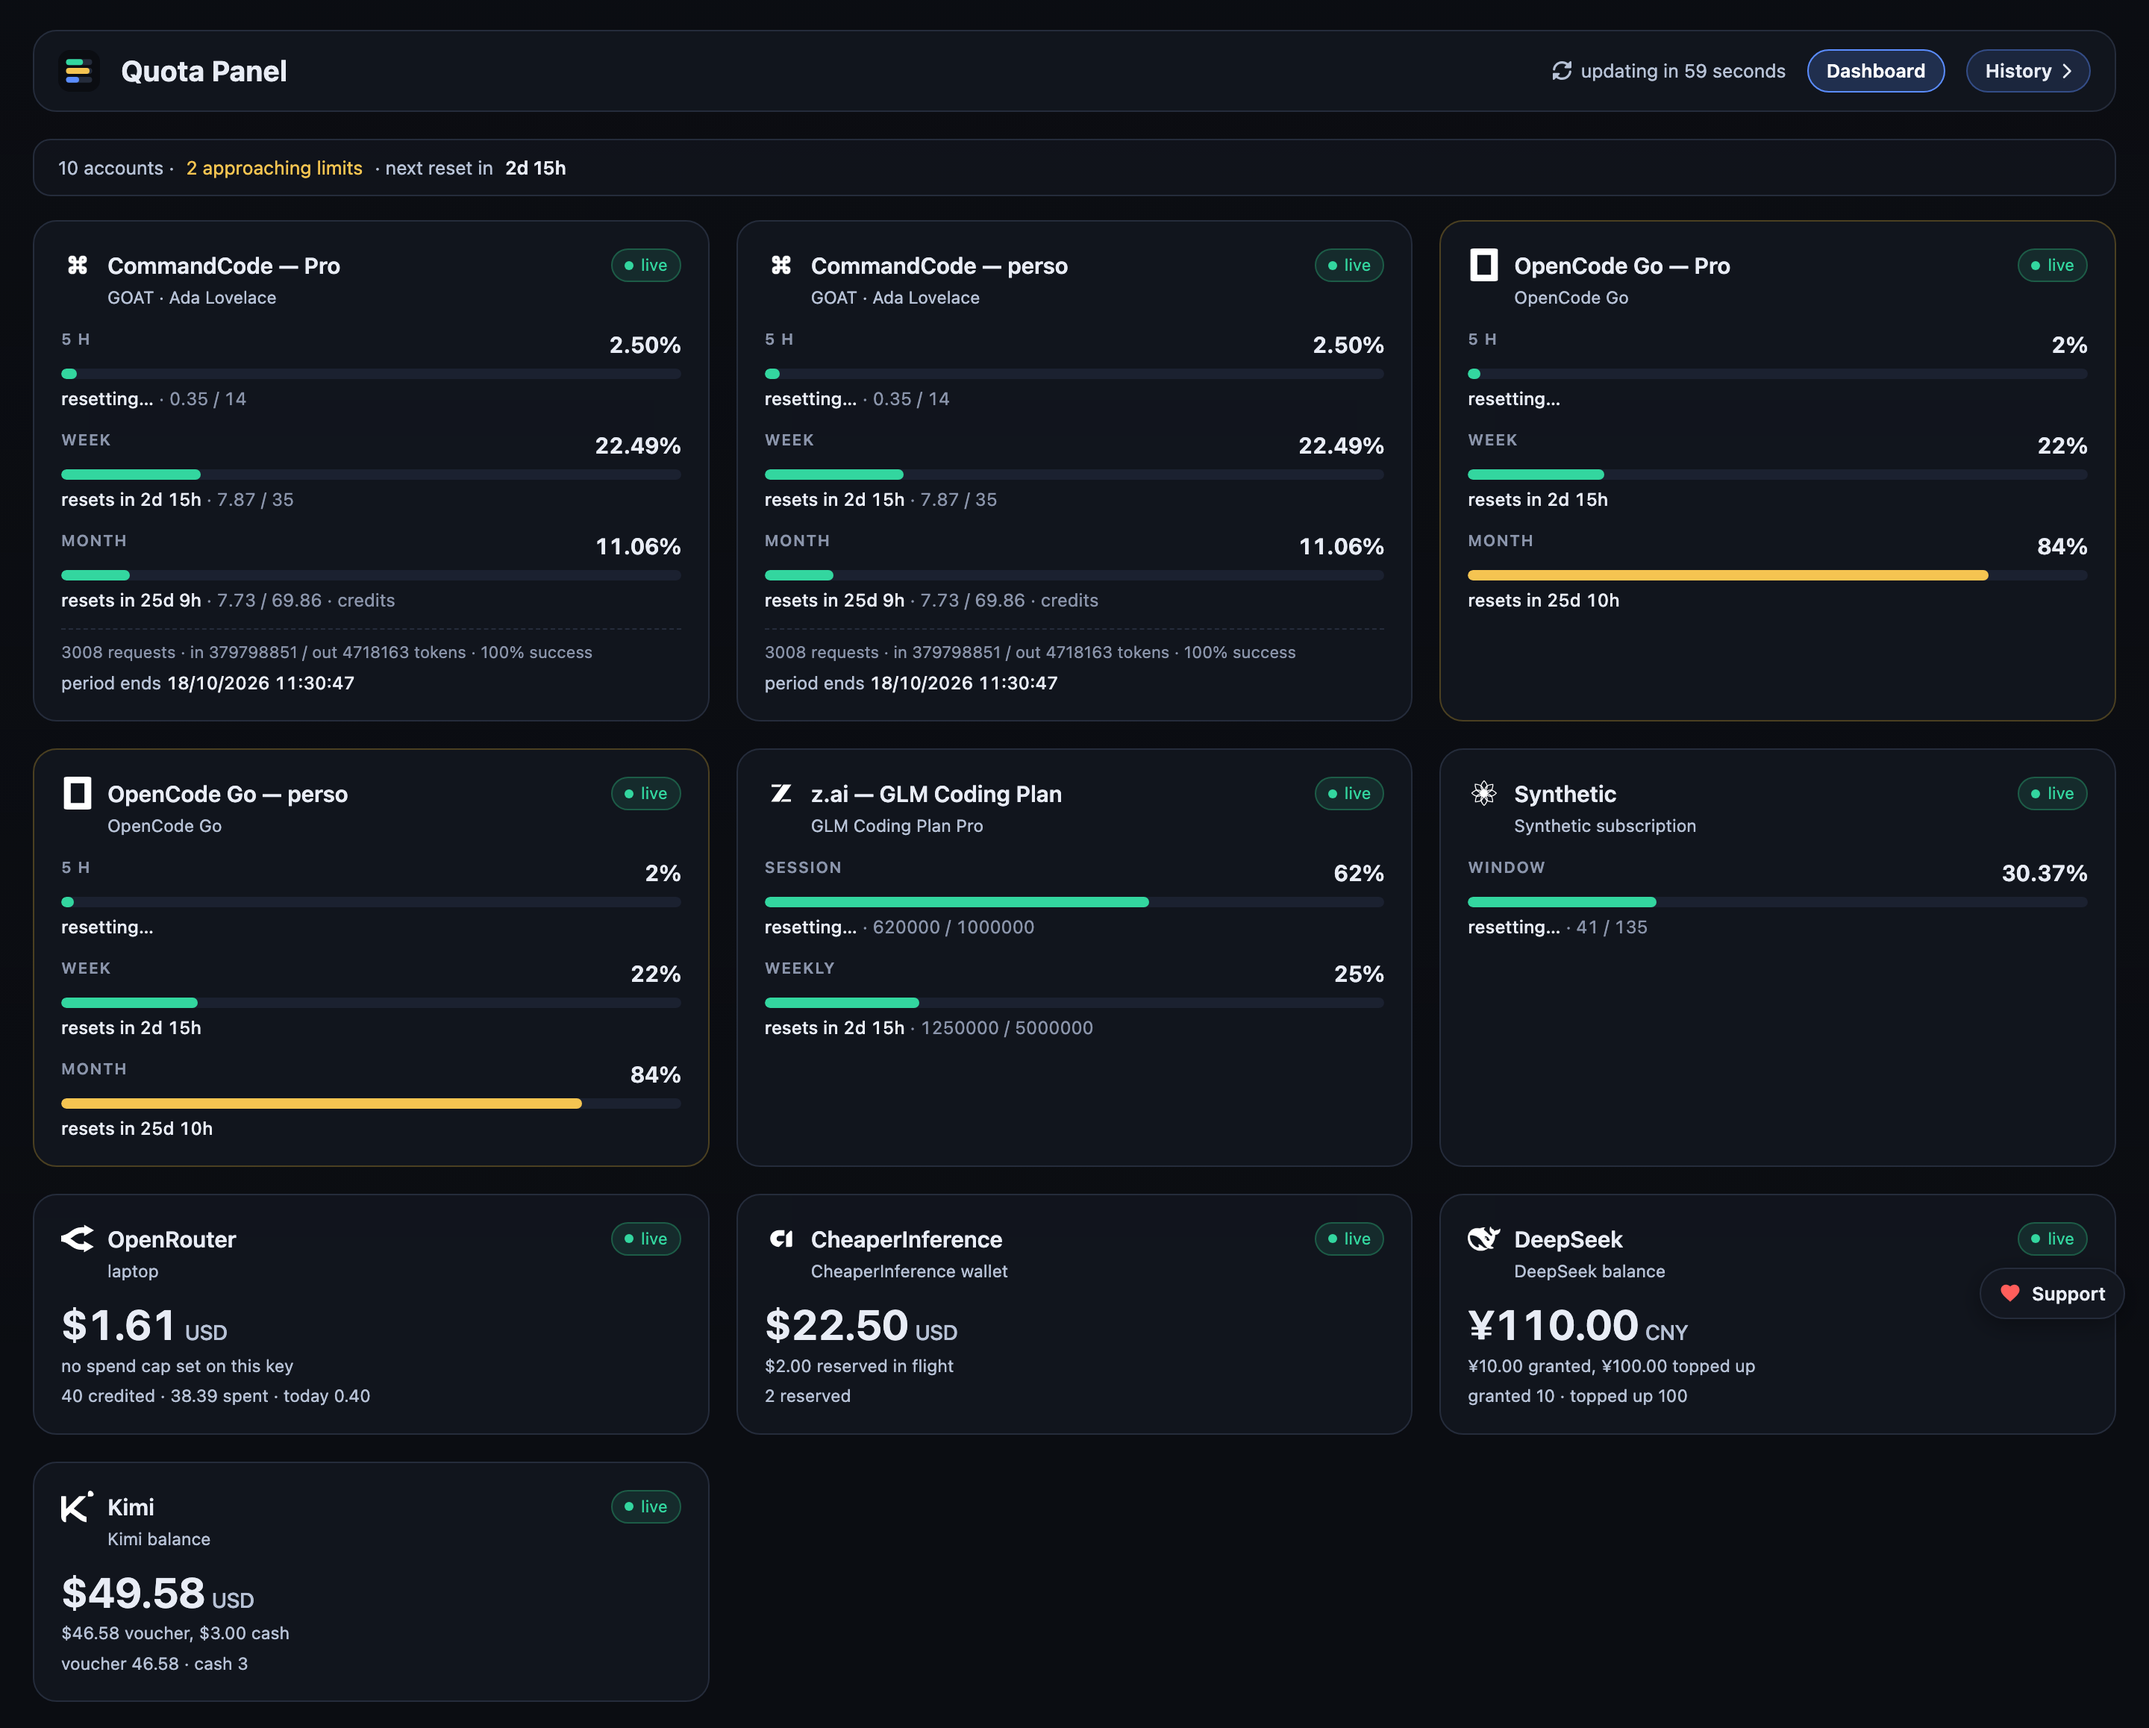
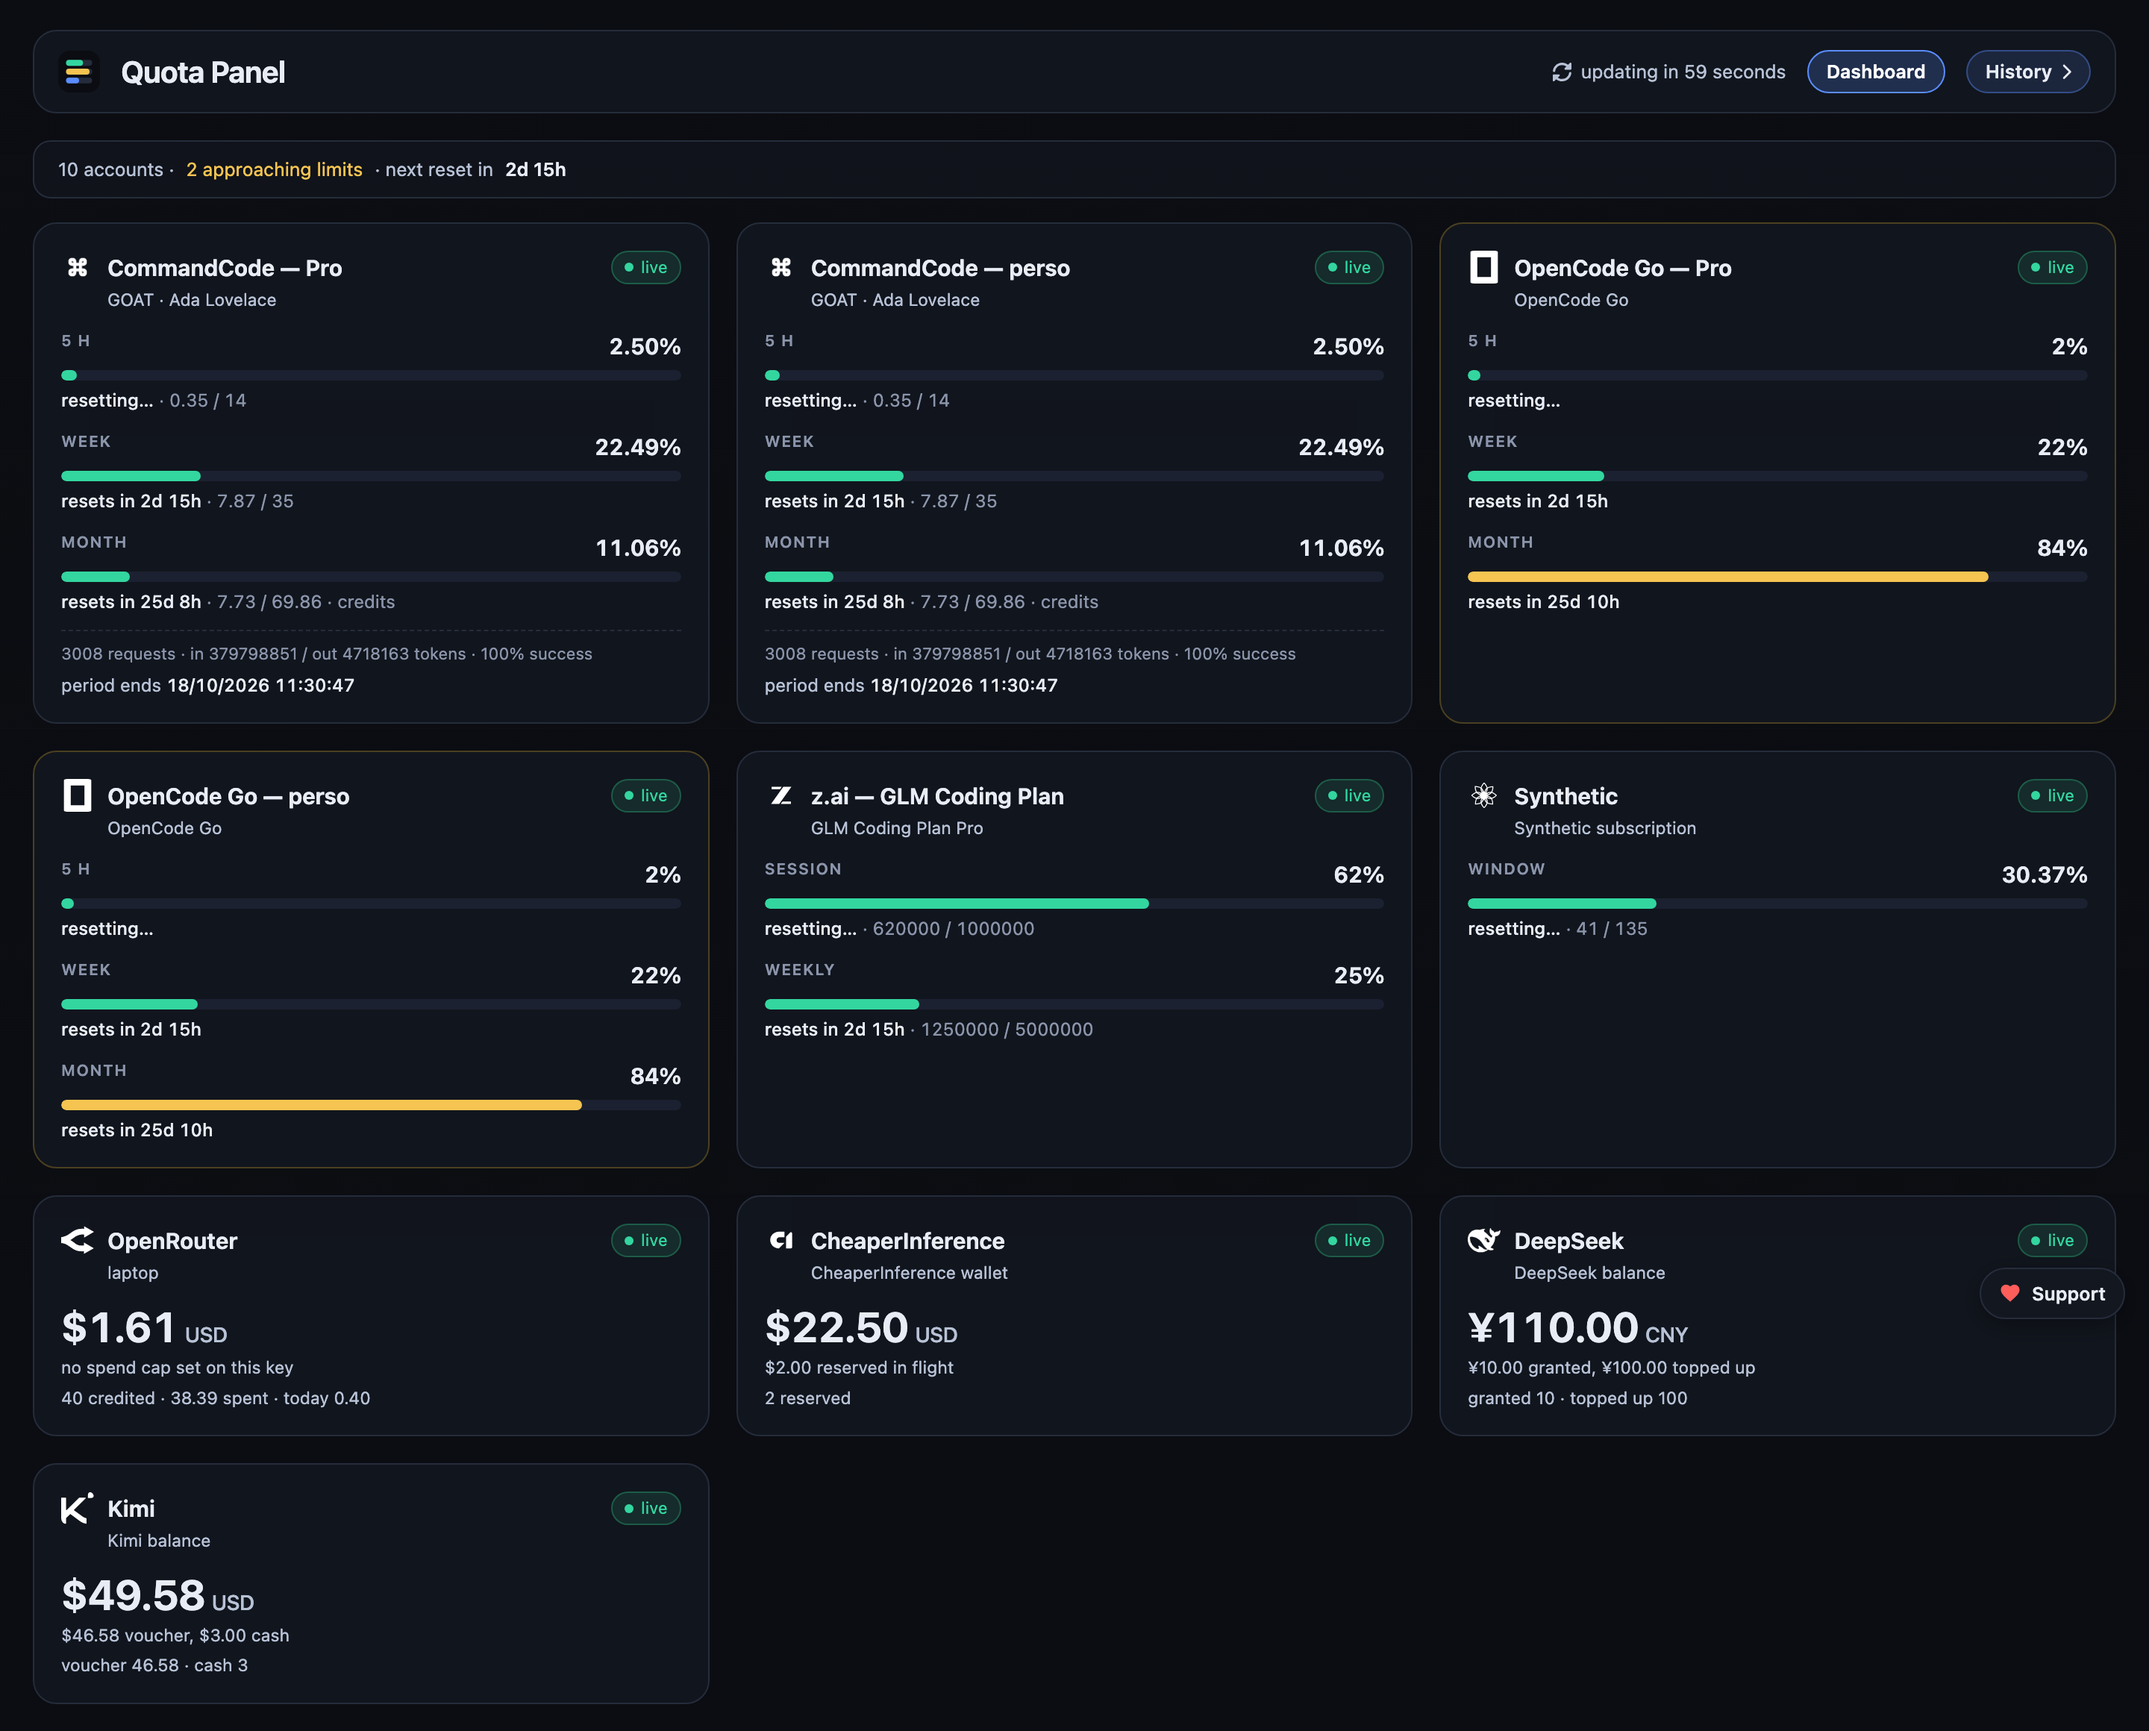
fix(ui): close review findings — pin the strip guard, validate the restored bucket, spec typography

diff --git a/static/history.html b/static/history.html
@@ -50,7 +50,7 @@
        background:rgba(var(--card),var(--card-alpha));
        border:1px solid var(--line);border-radius:16px;padding:12px 16px;
        backdrop-filter:blur(var(--card-blur));-webkit-backdrop-filter:blur(var(--card-blur))}
-  h1{font-size:19px;margin:0;letter-spacing:.2px}
+  h1{font-size:20px;margin:0;letter-spacing:-.01em;font-weight:650}
   h2{font-size:14px;margin:0 0 4px;letter-spacing:.2px}
   .sub{font-size:11.5px;color:var(--dim);margin-bottom:12px}
   .logo{width:28px;height:28px;border-radius:8px;flex:0 0 auto;align-self:center;display:block}
@@ -84,7 +84,7 @@
        padding:5px 8px;font:inherit;font-size:12.5px}
   .stats{display:grid;gap:12px;grid-template-columns:repeat(auto-fit,minmax(160px,1fr));margin-bottom:16px}
   .stat{background:var(--card-2);border:1px solid var(--line);border-radius:12px;padding:12px 14px}
-  .stat .k{font-size:10.5px;color:var(--dim);text-transform:uppercase;letter-spacing:.5px}
+  .stat .k{font-size:10.5px;color:var(--dim);text-transform:uppercase;letter-spacing:.06em}
   .stat .v{font-size:22px;font-weight:700;margin-top:3px;letter-spacing:-.02em;font-variant-numeric:tabular-nums}
   .stat .s{font-size:11.5px;color:var(--muted);margin-top:2px}
   .chart-wrap{position:relative;width:100%}
@@ -319,7 +319,7 @@ function applyStoredSettings(){
   if(!saved || saved.v !== 1) return;
   if(RANGES.some(r => r.hours === saved.hours)) state.hours = saved.hours;
   if(typeof saved.account === 'string') state.account = saved.account;
-  if(typeof saved.bucket === 'number' && saved.bucket >= 0) state.bucket = saved.bucket;
+  if(saved.bucket === 0 || INTERVALS.indexOf(saved.bucket) >= 0) state.bucket = saved.bucket;
 }
 
 function saveSettings(){
@@ -1432,7 +1432,7 @@ function renderScatter(){
     return;
   }
   const width = SQUARE, height = SQUARE;
-  const pad = {left: 34, right: 14, top: 14, bottom: 26};
+  const pad = {left: 34, right: 14, top: 14, bottom: 34};
   const plotW = width - pad.left - pad.right, plotH = height - pad.top - pad.bottom;
   const x = value => pad.left + (Math.max(0, Math.min(value, 100)) / 100) * plotW;
   const y = value => pad.top + plotH - (Math.max(0, Math.min(value, 100)) / 100) * plotH;

diff --git a/static/index.html b/static/index.html
@@ -45,7 +45,7 @@
        background:rgba(var(--card),var(--card-alpha));
        border:1px solid var(--line);border-radius:16px;padding:12px 16px;
        backdrop-filter:blur(var(--card-blur));-webkit-backdrop-filter:blur(var(--card-blur))}
-  h1{font-size:19px;margin:0;letter-spacing:.2px}
+  h1{font-size:20px;margin:0;letter-spacing:-.01em;font-weight:650}
   .logo{width:28px;height:28px;border-radius:8px;flex:0 0 auto;align-self:center;display:block}
   .muted{color:var(--muted);font-size:12.5px}
   /* Inline Font Awesome Free 7.3.1 solid marks (icons CC BY 4.0, Fonticons Inc. — see License in
@@ -66,8 +66,8 @@
   .card.watch{border-color:#4b4021}
   .card.urgent{border-color:#5a2a26;box-shadow:inset 3px 0 0 var(--hot)}
   .card.broken{border-color:#5c2020;box-shadow:inset 3px 0 0 #8a3a32}
-  /* min() keeps the 310px track from forcing a horizontal scroll on a 320-338px viewport, where
-     the content box is narrower than the track's own minimum. */
+  /* Three columns on a wide monitor, two on a laptop, one on a phone. Explicit breakpoints rather
+     than auto-fill, so a 1440px viewport does not quietly become four narrow cards. */
   .grid{display:grid;gap:18px;grid-template-columns:1fr}
   @media (min-width:700px){ .grid{grid-template-columns:1fr 1fr} }
   @media (min-width:1100px){ .grid{grid-template-columns:1fr 1fr 1fr} }
@@ -107,7 +107,7 @@
   .bal-amount .cur{font-size:14px;font-weight:500;color:var(--muted);margin-left:4px}
   .bal-amount.empty{color:var(--warn)}
   .bal-note{font-size:11.5px;color:var(--muted);margin-top:3px}
-  .label{font-weight:600;font-size:15px;margin:0}   /* an h2: the card's title, for a reader */
+  .label{font-weight:650;font-size:15px;margin:0}   /* an h2: the card's title, for a reader */
   .plan{font-size:11.5px;color:var(--muted);margin-top:2px}
   /* A status light: a dot and one word about the reading on this card. Not a verdict on how the
      adapter that produced it was written — that is a maintainer's question, and answering it in

diff --git a/tests/smoke.py b/tests/smoke.py
@@ -230,8 +230,12 @@ def ui_checks():
           'id="status-strip"' in page and 'class="card" id="status-strip"' not in page
           and "function setStatusStrip" in page,
           "the one-line summary must not be counted as an account card")
+    # Scoped to worstPercent's own body: the same guard lives in cardState, so a bare
+    # "the string exists somewhere" check would pass even with the strip's guard removed.
+    worst_body = (page.split("function worstPercent(acc){", 1)[1][:400]
+                  if "function worstPercent(acc){" in page else "")
     check("the status strip counts a missing percent as no pressure",
-          "function worstPercent" in page and "numericPercent(w.percent)" in page,
+          "let worst = -1;" in worst_body and "if(p !== null && p > worst) worst = p;" in worst_body,
           "a null percent must not read as 0% or 100%")
     check("the status strip omits the reset clause when no reset parses",
           "isFinite(soonest)" in page,

diff --git a/tests/history.py b/tests/history.py
@@ -949,6 +949,9 @@ def page_checks():
     check("a restored interval the range cannot afford falls back to Auto",
           "if(state.bucket && state.bucket < floor) state.bucket = 0;" in page,
           "an over-fine bucket would ask the server for more points than it allows")
+    check("a restored bucket must be a ladder step or Auto",
+          "if(saved.bucket === 0 || INTERVALS.indexOf(saved.bucket) >= 0)" in page,
+          "a value that is not an offered interval leaves the select and the request disagreeing")
     check("the square charts draw into one square box",
           "const SQUARE = 236" in page and "function scatterLegendHtml" in page
           and 'id="radar-values"' in page,
